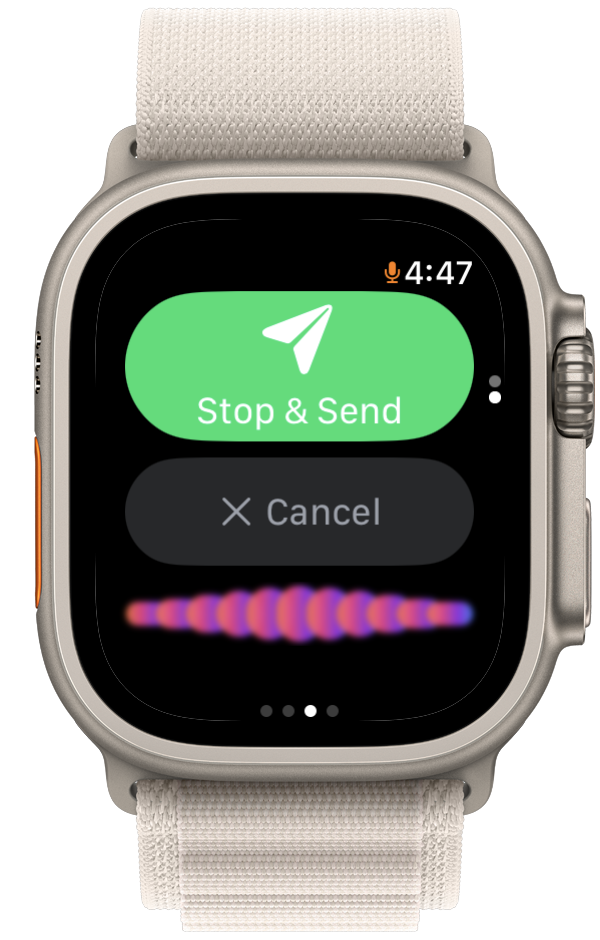
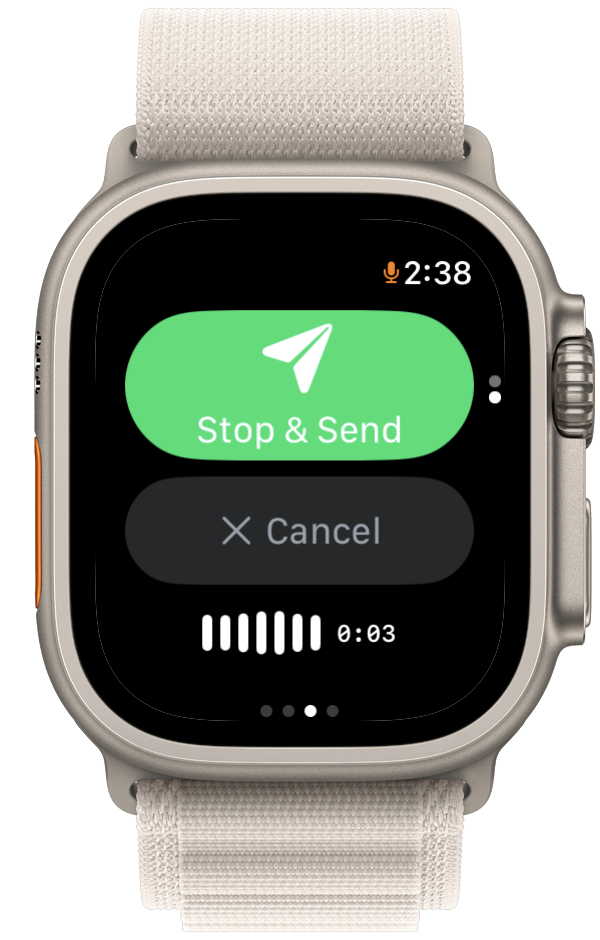
docs: reorder README watch screenshots by user journey
Show the full wrist-first flow from pairing through voice send, transcribe, agent pick, and per-message replay.

Changed region(s): [[0.21, 0.2777, 0.81, 0.7096], [0.78, 0.3702, 0.81, 0.4319]]

diff --git a/README.md b/README.md
@@ -9,15 +9,17 @@ Open Watch Agent is an AI wrist-first interface. It lets you manage your AI agen
 This is fully open-source
 
 <p>
-  <img src="docs/images/watch-speak.png" width="220" alt="Open Watch Platform Speak screen on Apple Watch">
-  <img src="docs/images/watch-recording.png" width="220" alt="Open Watch Platform recording screen on Apple Watch">
-  <img src="docs/images/watch-agents.png" width="220" alt="Open Watch Platform agents screen on Apple Watch">
+  <img src="docs/images/watch-pair-iphone.png" width="220" alt="Pair on iPhone">
+  <img src="docs/images/watch-speak.png" width="220" alt="Speak on Apple Watch">
+  <img src="docs/images/watch-recording.png" width="220" alt="Recording on Apple Watch">
+  <img src="docs/images/watch-sending.png" width="220" alt="Sending voice on Apple Watch">
 </p>
 
 <p>
-  <img src="docs/images/watch-sessions.png" width="220" alt="Open Watch Platform sessions screen on Apple Watch">
-  <img src="docs/images/watch-usage-overview.png" width="220" alt="Open Watch Platform usage overview screen on Apple Watch">
-  <img src="docs/images/watch-usage-tokens.png" width="220" alt="Open Watch Platform usage tokens screen on Apple Watch">
+  <img src="docs/images/watch-transcribing.png" width="220" alt="Transcribing on Apple Watch">
+  <img src="docs/images/watch-agents.png" width="220" alt="Agents on Apple Watch">
+  <img src="docs/images/watch-session-speak.png" width="220" alt="Replay message on Apple Watch">
+  <img src="docs/images/watch-session-stop.png" width="220" alt="Stop replay on Apple Watch">
 </p>
 
 ## Why